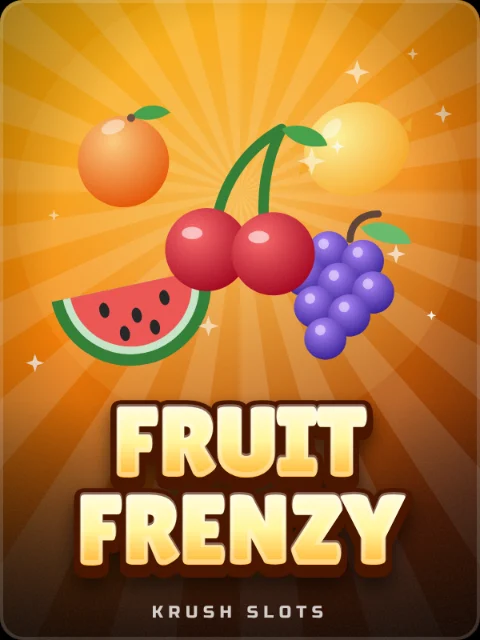
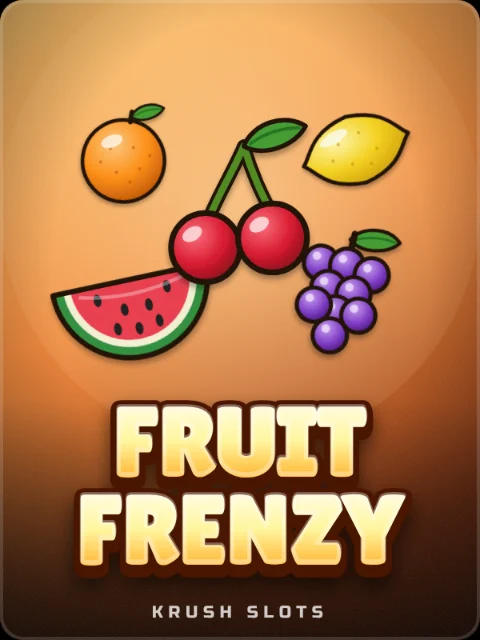
Lobby covers match the rebuilt games
- Classic Slots, Lucky 7s, Fruit Frenzy covers use the new Vegas reel art,
  chrome machine and casino lights (no sunbursts or sparkles).
- Fish Table cover is built from the Kenney sprites; Big Six and Penalty
  covers reuse the games' own renderers (Casino.bigSixArt, Casino.penaltyArt).

Claude-Session: https://claude.ai/code/session_01RPFgBKGoppNJDXmVaq3vJc

diff --git a/js/covers.js b/js/covers.js
@@ -179,10 +179,12 @@
       `<path d="M70 230 C60 170 90 110 140 80" stroke="#fff" stroke-opacity=".25" stroke-width="5" fill="none"/><path d="M230 230 C240 170 210 110 160 80" stroke="#fff" stroke-opacity=".18" stroke-width="5" fill="none"/>`,
       A('coinHeads', 150, 140, 150, -12), coinArt(232, 236, 26, 30, 0.4), sparkles(10, 11, '#fff8d0', [40, 40, 260, 240]),
       T(['COIN', 'FLIP'], { font: 'Titan One', size: 58, colors: ['#fffde7', '#ffd54f', '#c99a06'], stroke: '#2a1800' })],
-    fish: () => [bg(['#00b4d8', '#0077b6', '#03045e']), rays(150, -40, '#fff', 0.08, 16, 500), bokeh(14, 21, ['#caf0f8', '#90e0ef'], 0.3),
-      fish(220, 90, 60, '#ffd166', '#ef8354', -1, -6), fish(80, 130, 48, '#83d483', '#2a9d8f', 1, 8), fish(210, 210, 44, '#f78c6b', '#e63946', -1, 4),
-      fish(110, 220, 110, '#ffe066', '#e0a400', 1, -4), (() => { const r = rng(5); return Array.from({ length: 14 }, () => `<circle cx="${(r() * 300).toFixed(0)}" cy="${(r() * 280).toFixed(0)}" r="${(r() * 5 + 2).toFixed(1)}" fill="none" stroke="#e0fbfc" stroke-width="1.4" opacity=".7"/>`).join(''); })(),
-      T(['FISH', 'TABLE'], { font: 'Luckiest Guy', size: 56, colors: ['#ffffff', '#caf0f8', '#48cae4'], stroke: '#02133d' })],
+    fish: () => [bg(['#62c9df', '#2e98c3', '#1b6f9c']), `<g opacity=".12" fill="#fff">${[40, 120, 200, 260].map((x, k) => `<path d="M${x} 0 h${26 + (k % 2) * 14} l70 300 h-${26 + (k % 2) * 14}z"/>`).join('')}</g>`,
+      (() => { const im = (n, x, y, w, hh, flip) => `<image href="img/fish/${n}.webp" x="${flip ? -x - w : x}" y="${y}" width="${w}" height="${hh}" preserveAspectRatio="xMidYMid meet"${flip ? ' transform="scale(-1 1)"' : ''}/>`;
+        return [im('deco-028', 8, 196, 58, 74), im('deco-010', 236, 200, 54, 70), im('deco-047', 120, 238, 44, 38), im('deco-064', 180, 212, 46, 58),
+          ...[0, 1, 2, 3].map((k) => im('sand-top', k * 78 - 4, 262, 80, 76)),
+          im('eel-gold', 30, 46, 170, 40, false), im('puffer', 176, 86, 92, 88, true), im('red', 22, 120, 92, 74, false), im('blue', 200, 182, 74, 44, true), im('orange', 112, 196, 64, 38, false)].join(''); })(),
+      T(['FISH', 'TABLE'], { font: 'Luckiest Guy', size: 56, colors: ['#ffffff', '#fff3c4', '#ffc93c'], stroke: '#0b3b5a' })],
     wheel: () => [bg(['#5e17eb', '#2b0a6e', '#0d0326']), glow(150, 230, 170, '#b388ff', 0.45),
       wheel(150, 260, 150, Array.from({ length: 24 }, (_, i) => ['#ff1744', '#2979ff', '#ffc400', '#00c853', '#d500f9', '#ff6d00'][i % 6]), Array.from({ length: 24 }, (_, i) => ['2×', '0', '3×', '1.5×', '0', '5×'][i % 6]), { fs: 13 }),
       `<path d="M150 98 l-15 -26 h30z" fill="#fff" stroke="#3a1a6e" stroke-width="3" stroke-linejoin="round"/>`, sparkles(8, 3, '#fff', [20, 20, 280, 90]),
@@ -206,11 +208,9 @@
       `<path d="M150 214 C146 240 156 256 150 276" stroke="#eceff1" stroke-width="2.5" fill="none"/>`, A('balloon', 150, 128, 190, 0, '#e53935'),
       `<rect x="120" y="270" width="60" height="16" rx="4" fill="#37474f"/><rect x="142" y="248" width="16" height="26" fill="#546e7a"/><rect x="128" y="240" width="44" height="10" rx="5" fill="#263238"/>`,
       T(['PUMP'], { font: 'Luckiest Guy', size: 76, colors: ['#ffffff', '#ffe0e0', '#ff5252'], stroke: '#3a0000' })],
-    penalty: () => [bg(['#0b3d1f', '#06210f', '#020a05']), glow(30, 10, 120, '#e3f2fd', 0.7), glow(270, 10, 120, '#e3f2fd', 0.7), rays(30, 10, '#fff', 0.06, 10), rays(270, 10, '#fff', 0.06, 10),
-      `<g stroke="#fff" stroke-width="5" fill="none"><path d="M40 70 V200 M260 70 V200 M40 70 H260"/></g><g stroke="#fff" stroke-opacity=".35" stroke-width="1">${Array.from({ length: 18 }, (_, i) => `<line x1="${48 + i * 12}" y1="72" x2="${48 + i * 12}" y2="200"/>`).join('')}${Array.from({ length: 11 }, (_, i) => `<line x1="42" y1="${80 + i * 12}" x2="258" y2="${80 + i * 12}"/>`).join('')}</g>`,
-      `<rect x="0" y="200" width="300" height="200" fill="#1b5e20"/>${Array.from({ length: 6 }, (_, i) => `<rect x="${i * 50}" y="200" width="25" height="200" fill="#2e7d32" opacity=".6"/>`).join('')}<path d="M20 290 H280" stroke="#fff" stroke-width="3" opacity=".8"/>`,
-      `<path d="M70 250 C120 200 170 150 210 112" stroke="#fff" stroke-opacity=".35" stroke-width="8" stroke-dasharray="2 10" stroke-linecap="round" fill="none"/>`, A('ball', 214, 108, 54, 20),
-      T(['PENALTY'], { font: 'Russo One', size: 54, colors: ['#ffffff', '#e8f5e9', '#69f0ae'], stroke: '#022008' })],
+    penalty: () => { const P = C.penaltyArt(); return [bg(['#0d1a29', '#0a1420', '#050a10']),
+      `<svg x="0" y="0" width="300" height="270" viewBox="132 10 536 470" preserveAspectRatio="xMidYMid slice"><image href="${P.bg}" width="800" height="460"/>${P.keeper}${P.ball}</svg>`,
+      T(['PENALTY'], { font: 'Russo One', size: 54, colors: ['#ffffff', '#e8f5e9', '#c7ee2f'], stroke: '#022008' })]; },
     darts: () => [bg(['#5d2a12', '#2e1407', '#100602']), `<g opacity=".25">${Array.from({ length: 8 }, (_, i) => `<rect x="0" y="${i * 52}" width="300" height="2" fill="#000"/>`).join('')}</g>`, glow(150, 150, 150, '#ffcc80', 0.25),
       (() => { const cx = 150, cy = 150, R = 118; let s = `<circle cx="${cx}" cy="${cy}" r="${R + 14}" fill="#111"/>`; const seg = (Math.PI * 2) / 20, ring = (r0, r1, c1, c2) => Array.from({ length: 20 }, (_, i) => { const a0 = i * seg - Math.PI / 2 - seg / 2, a1 = a0 + seg, c = i % 2 ? c1 : c2; return `<path d="M${cx + Math.cos(a0) * r0} ${cy + Math.sin(a0) * r0} L${cx + Math.cos(a0) * r1} ${cy + Math.sin(a0) * r1} A${r1} ${r1} 0 0 1 ${cx + Math.cos(a1) * r1} ${cy + Math.sin(a1) * r1} L${cx + Math.cos(a1) * r0} ${cy + Math.sin(a1) * r0} A${r0} ${r0} 0 0 0 ${cx + Math.cos(a0) * r0} ${cy + Math.sin(a0) * r0}z" fill="${c}"/>`; }).join('');
         s += ring(R * 0.95, R, '#c62828', '#2e7d32') + ring(R * 0.62, R * 0.95, '#f3e5c0', '#141414') + ring(R * 0.56, R * 0.62, '#c62828', '#2e7d32') + ring(R * 0.12, R * 0.56, '#f3e5c0', '#141414');
@@ -271,10 +271,9 @@
       die(110, 196, 56, 4, -12, 'white', 1, 2), die(186, 194, 56, 6, 14, 'white', 2, 3), die(148, 150, 56, 2, 4, 'white', 3, 6),
       (() => { const g = id('gd'); return `<defs>${rad(g, [['#ffffff', 0.3], ['#e3f2fd', 0.06]], 0.35, 0.3, 0.7)}</defs><path d="M52 226 C52 90 248 90 248 226z" fill="url(#${g})" stroke="#fff" stroke-opacity=".6" stroke-width="2.5"/><path d="M82 140 C96 112 120 100 140 98" stroke="#fff" stroke-width="5" stroke-linecap="round" fill="none" opacity=".6"/>`; })(),
       T(['SIC BO'], { font: 'Titan One', size: 66, colors: ['#ffffff', '#fff3c4', '#ffc400'], stroke: '#2a0000' })],
-    bigsix: () => [bg(['#1a237e', '#0b0f3a', '#02030f']), glow(150, 160, 170, '#82b1ff', 0.3),
-      wheel(150, 172, 132, Array.from({ length: 27 }, (_, i) => ['#fff8e1', '#c8e6c9', '#bbdefb', '#fff8e1', '#ffcdd2', '#fff8e1', '#e1bee7', '#fff8e1', '#ffe082'][i % 9]), Array.from({ length: 27 }, (_, i) => ['$1', '$2', '$5', '$1', '$10', '$1', '$20', '$1', '★'][i % 9]), { fs: 13, font: 'Russo One', lr: 0.84 }),
-      `<g fill="#1a237e" font-family="Russo One" font-size="13" text-anchor="middle"></g><path d="M150 26 l-14 -22 h28z" fill="#ff1744" stroke="#fff" stroke-width="2"/>`,
-      T(['BIG SIX'], { font: 'Bungee', size: 54, colors: ['#ffffff', '#e3f2fd', '#82b1ff'], stroke: '#02031a' })],
+    bigsix: () => [bg(['#2a1208', '#140804', '#050201']), glow(150, 150, 170, '#c98a3a', 0.35),
+      `<image href="${C.bigSixArt()}" x="18" y="4" width="264" height="286"/>`,
+      T(['BIG SIX'], { font: 'Anton', size: 64, colors: ['#ffffff', '#fbe7a6', '#d8a332'], stroke: '#2a0f05' })],
     dragontiger: () => [`<rect width="300" height="400" fill="#120000"/><path d="M0 0 H170 L130 400 H0z" fill="#8e0000"/><path d="M170 0 H300 V400 H130z" fill="#e65100"/>`, glow(150, 150, 150, '#ffd54f', 0.2),
       (() => { const r = rng(8); let s = ''; for (let i = 0; i < 9; i++) s += `<path d="M${180 + r() * 110} ${20 + i * 30} q${20 + r() * 20} ${10} ${40 + r() * 20} 0" stroke="#1a0a00" stroke-width="${5 + r() * 4}" fill="none" stroke-linecap="round" opacity=".55"/>`; return s; })(),
       (() => { let s = ''; for (let i = 0; i < 6; i++) s += `<path d="M${20 + i * 18} ${300 - i * 40} c10 -20 30 -20 40 0" stroke="#ffd54f" stroke-width="2" fill="none" opacity=".35"/>`; return s; })(),
@@ -354,23 +353,23 @@
       T(['PICK 3'], { font: 'Luckiest Guy', size: 70, colors: ['#ffffff', '#e1f5fe', '#40c4ff'], stroke: '#001527', y: 350 })],
 
     /* ===== Slots ===== */
-    slots: () => [bg(['#b71c1c', '#6d0000', '#1f0000']), rays(150, 130, '#ffd54f', 0.12), glow(150, 130, 130, '#ffd54f', 0.35),
-      (() => { const g = id('sm'), w = id('sw'); return shadow(`<defs>${lin(g, ['#ffe082', '#c99a06', '#6d4c00'])}${lin(w, ['#fff', '#e0e0e0'])}</defs>
-        <rect x="40" y="56" width="220" height="170" rx="24" fill="url(#${g})" stroke="#3a2400" stroke-width="3"/><rect x="58" y="88" width="184" height="104" rx="10" fill="#1a1a1a"/>
+    slots: () => [bg(['#3a0a10', '#1c0408', '#070103']), (() => { const f = id('bk'), r = rng(21); return `<defs>${blurF(f, 5)}</defs><g filter="url(#${f})">${Array.from({ length: 24 }, () => { const c = ['#ffcf6b', '#ff8a3d', '#ffe7b0', '#e8384f'][(r() * 4) | 0]; return `<circle cx="${(r() * 300).toFixed(0)}" cy="${(r() * 230).toFixed(0)}" r="${(6 + r() * 22).toFixed(0)}" fill="${c}" opacity="${(0.15 + r() * 0.35).toFixed(2)}"/>`; }).join('')}</g>`; })(),
+      (() => { const g = id('sm'), w = id('sw'); return shadow(`<defs>${lin(g, ['#f7f9fb', '#b9c2cc', '#6d7984', '#d9dfe5'])}${lin(w, ['#a8a294', '#fbf9f4', '#a8a294'])}</defs>
+        <rect x="40" y="56" width="220" height="170" rx="24" fill="url(#${g})" stroke="#1a1d22" stroke-width="3"/><rect x="58" y="88" width="184" height="104" rx="10" fill="#1a1a1a"/>
         ${[0, 1, 2].map((i) => `<rect x="${64 + i * 59}" y="94" width="54" height="92" rx="6" fill="url(#${w})"/>`).join('')}<rect x="60" y="138" width="180" height="3" fill="#ff1744" opacity=".8"/>
         <rect x="262" y="96" width="10" height="70" rx="5" fill="#9e9e9e"/><circle cx="267" cy="90" r="12" fill="#ff1744" stroke="#7f0000" stroke-width="2"/>
-        <text x="150" y="80" text-anchor="middle" font-family="Bungee" font-size="16" fill="#7f0000">JACKPOT</text>`, 8, 8, 0.6); })(),
-      A('seven', 91, 140, 50), A('seven', 150, 140, 50), A('seven', 209, 140, 50), sparkles(10, 6, '#fff8e1', [20, 20, 280, 260]),
-      T(['SLOTS'], { font: 'Bungee', size: 66, colors: ['#ffffff', '#ffe0e0', '#ff5252'], stroke: '#1f0000' })],
-    fruits: () => [bg(['#ffb300', '#f57c00', '#7f2700']), rays(150, 120, '#fff', 0.14, 22), glow(150, 130, 140, '#fff59d', 0.5),
-      A('melon', 84, 190, 120, -12), A('grape', 214, 178, 110, 14), A('lemon', 222, 92, 86, -18), A('orange', 78, 96, 84, 10), A('cherry', 150, 130, 130, 0), sparkles(10, 2, '#fff', [20, 20, 280, 240]),
+        <text x="150" y="81" text-anchor="middle" font-family="Anton" font-size="18" letter-spacing="3" fill="#8f0613">JACKPOT</text>`, 8, 8, 0.6); })(),
+      S('sevens', 'seven', 91, 140, 42), S('sevens', 'seven', 150, 140, 42), S('sevens', 'seven', 209, 140, 42),
+      T(['SLOTS'], { font: 'Anton', size: 70, colors: ['#ffffff', '#e6ebf0', '#9aa6b2'], stroke: '#1a0d06' })],
+    fruits: () => [bg(['#ffc46b', '#f58a3a', '#8a3410']), glow(150, 130, 150, '#fff3c4', 0.5),
+      S('fruits', 'melon', 84, 190, 100, -12), S('fruits', 'grape', 214, 178, 92, 14), S('fruits', 'lemon', 222, 92, 72, -18), S('fruits', 'orange', 78, 96, 70, 10), S('fruits', 'cherry', 150, 132, 108, 0),
       T(['FRUIT', 'FRENZY'], { font: 'Lilita One', size: 60, colors: ['#ffffff', '#fff59d', '#ff9800'], stroke: '#4a1500' })],
     gems: () => [bg(['#5e35b1', '#311b92', '#0d0628']), glow(150, 140, 150, '#b388ff', 0.4), sparkles(16, 7, '#fff', [10, 10, 290, 280]),
       A('g-red', 86, 200, 90, -12), A('g-green', 214, 200, 90, 12), A('g-blue', 82, 100, 76, -18), A('g-orange', 222, 96, 76, 16), A('diamond', 150, 140, 140), A('crown', 150, 52, 70),
       T(['GEM RUSH'], { font: 'Titan One', size: 52, colors: ['#ffffff', '#f3e5f5', '#ce93d8'], stroke: '#0d0628' })],
-    sevens: () => [bg(['#1a0000', '#3a0000', '#000']), (() => { const f = id('fl'), g = id('fg'); return `<defs>${lin(g, ['#ffea00', '#ff6d00', '#d50000'], 0, 1, 0, 0)}${blurF(f, 4)}</defs><g filter="url(#${f})" opacity=".9">${[50, 100, 150, 200, 250].map((x, i) => `<path d="M${x - 40} 280 C${x - 50} 200 ${x - 10} 170 ${x} ${90 + (i % 2) * 30} C${x + 10} 170 ${x + 50} 200 ${x + 40} 280z" fill="url(#${g})"/>`).join('')}</g>`; })(),
-      A('seven', 84, 168, 100, -12), A('seven', 216, 168, 100, 12), A('seven', 150, 146, 130, 0),
-      T(['LUCKY 7s'], { font: 'Bungee', size: 54, colors: ['#ffffff', '#ffe082', '#ff6d00'], stroke: '#1a0000' })],
+    sevens: () => [bg(['#0a1a3f', '#071331', '#030716']), (() => { const f = id('bk'), r = rng(31); return `<defs>${blurF(f, 5)}</defs><g filter="url(#${f})">${Array.from({ length: 26 }, () => { const c = ['#6f8cff', '#ff4a5c', '#f4f1ea', '#9fb4ff'][(r() * 4) | 0]; return `<circle cx="${(r() * 300).toFixed(0)}" cy="${(r() * 220).toFixed(0)}" r="${(6 + r() * 22).toFixed(0)}" fill="${c}" opacity="${(0.15 + r() * 0.35).toFixed(2)}"/>`; }).join('')}</g>`; })(),
+      S('sevens', 'seven', 84, 168, 84, -12), S('sevens', 'seven', 216, 168, 84, 12), S('sevens', 'seven', 150, 146, 110, 0),
+      T(['LUCKY 7s'], { font: 'Anton', size: 58, colors: ['#ffffff', '#ffd9dd', '#e0122a'], stroke: '#0b1240' })],
     pharaoh: () => [bg(['#1a237e', '#ff8f00', '#ffcc80'], 0, 0.9), glow(150, 120, 120, '#fff3c4', 0.8), `<circle cx="150" cy="120" r="56" fill="#fff3c4" opacity=".9"/>`,
       `<path d="M-20 260 L80 120 L180 260z" fill="#c68a2e"/><path d="M80 120 L180 260 L120 260z" fill="#8a5a17"/><path d="M140 260 L230 140 L320 260z" fill="#d89b3a"/><path d="M230 140 L320 260 L270 260z" fill="#9c6516"/>`,
       `<rect y="250" width="300" height="150" fill="#e0a54a"/><path d="M0 250 C80 236 180 262 300 244 V260 H0z" fill="#c68a2e"/>`, S('pharaoh', 'wild', 150, 170, 150), S('pharaoh', 'ankh', 54, 214, 70, -10), S('pharaoh', 'scarab', 248, 216, 74, 10),

diff --git a/js/games/bigsix.js b/js/games/bigsix.js
@@ -84,6 +84,15 @@
     return '#' + [n >> 16, (n >> 8) & 255, n & 255].map(f).map((v) => v.toString(16).padStart(2, '0')).join('');
   }
 
+  /** A still of the wheel (used by tools/build-covers.js for the lobby cover). */
+  C.bigSixArt = () => {
+    const fr = renderFrame(), fc = renderFace(), c = document.createElement('canvas'); c.width = N; c.height = N + 50; const g = c.getContext('2d');
+    g.drawImage(fr, 0, 34); g.drawImage(fc, CX - N / 2, CY + 34 - N / 2);
+    const gl = g.createRadialGradient(CX - 110, CY - 70, 10, CX - 60, CY - 40, R_FACE + 60); gl.addColorStop(0, 'rgba(255,255,255,.20)'); gl.addColorStop(1, 'rgba(255,255,255,0)');
+    g.fillStyle = gl; g.beginPath(); g.arc(CX, CY + 34, R_FACE, 0, Math.PI * 2); g.fill();
+    g.save(); g.translate(CX, 34 + CY - R_FACE - 30); g.fillStyle = '#d9b45a'; g.fillRect(-26, -22, 52, 26); g.fillStyle = '#5a1420'; g.beginPath(); g.moveTo(-9, 0); g.lineTo(9, 0); g.lineTo(3, 46); g.lineTo(-3, 46); g.closePath(); g.fill(); g.restore();
+    return c.toDataURL('image/png');
+  };
   C.register({
     n: 20, id: 'bigsix', name: 'Big Six Wheel', icon: '🎡', cat: 'dice', edge: '11.1–24.07%',
     blurb: 'Money wheel with 54 slots. Joker & logo pay 40:1.',

diff --git a/js/games/penalty.js b/js/games/penalty.js
@@ -118,6 +118,12 @@
     return g;
   }
 
+  /** Pieces for the lobby cover (tools/build-covers.js): stadium image, a diving keeper and a ball, in scene coordinates. */
+  C.penaltyArt = () => {
+    const k = keeperSvg(); poseKeeper(k, POSE.reach); k.querySelector('.pk-body').setAttribute('transform', 'translate(470,300) scale(1.08) rotate(64 0 -70)'); k.querySelector('.pk-kshadow').setAttribute('transform', 'translate(500,320) scale(1.7,1)');
+    const b = ballSvg(); b.querySelector('.pk-bbody').setAttribute('transform', 'translate(560,196) scale(.7)'); b.querySelector('.pk-bshadow').setAttribute('transform', 'translate(560,320) scale(.3)');
+    return { bg: stadium().toDataURL('image/jpeg', 0.92), keeper: k.outerHTML, ball: b.outerHTML };
+  };
   C.register({
     n: 35, id: 'penalty', name: 'Penalty Shootout', icon: '⚽', cat: 'originals', edge: 'set by admin', round: 'penalty',
     blurb: 'Pick a corner, beat the keeper, five kicks to glory.',
